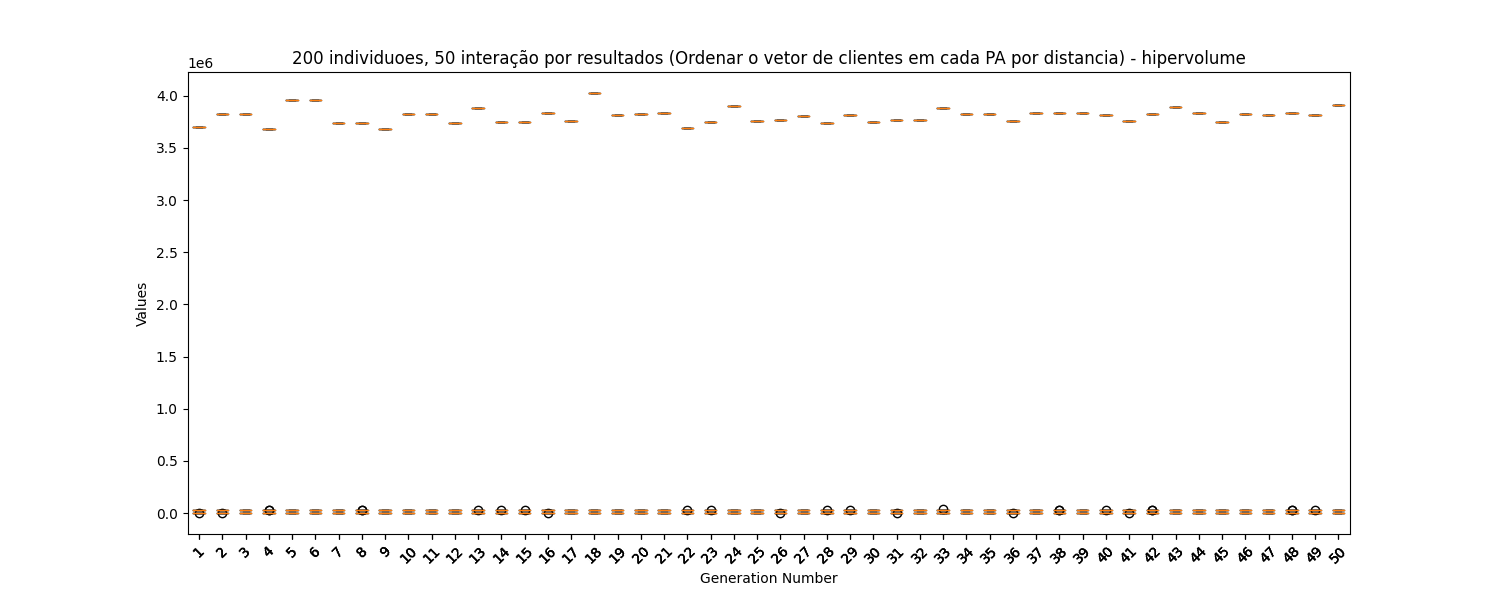
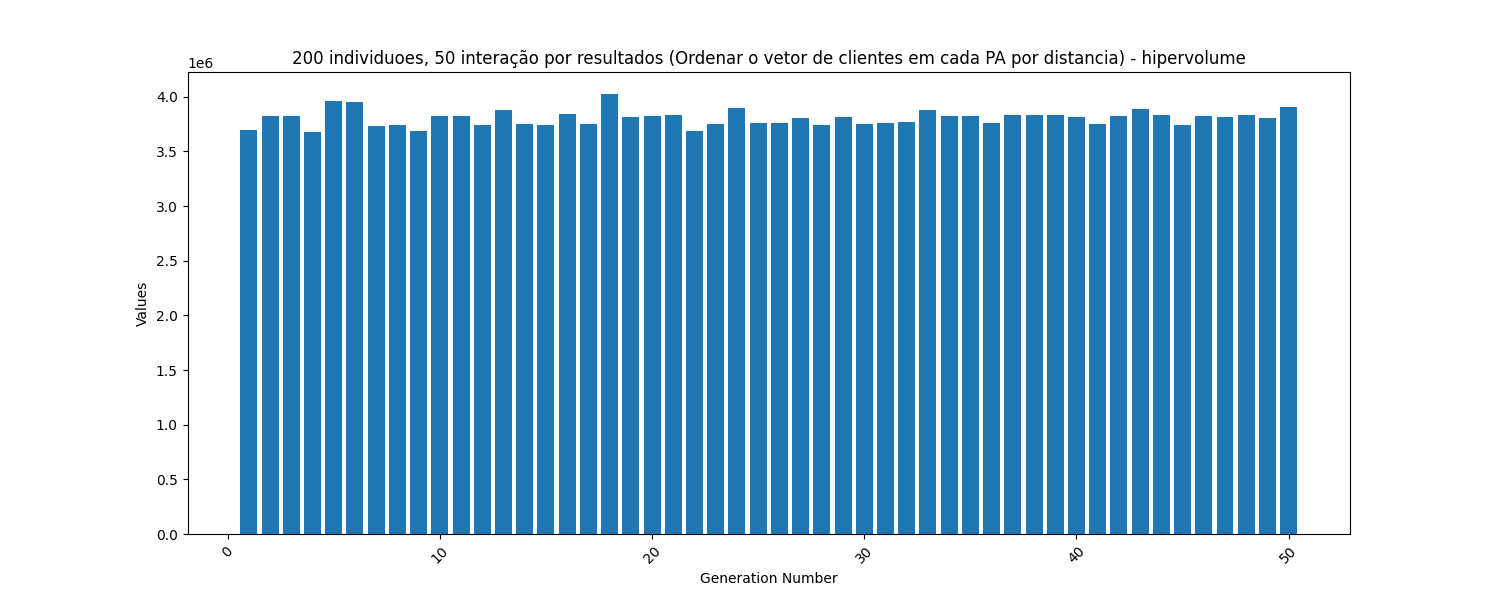
graficos hipervolume

diff --git a/plot_results.py b/plot_results.py
@@ -67,13 +67,13 @@ def plot_heuristic(file_name: str):
 
     plt.figure(figsize=(15, 6))
 
-    # plt.boxplot([[h] for h in hipervolumes], positions=range(1, len(hipervolumes) + 1), bootstrap=5000)
-    # plt.xticks(rotation=45)
-    # plt.xlabel('Generation Number')
-    # plt.ylabel('Values')
-    # plt.title(title.replace("\n", "") + " - hipervolume")
-    # # plt.show()
-    # plt.savefig(f'./images/{file_name.replace(".txt", "")}_hipervolume.png')
+    plt.bar(range(1, len(hipervolumes) + 1), hipervolumes)
+    plt.xticks(rotation=45)
+    plt.xlabel('Generation Number')
+    plt.ylabel('Values')
+    plt.title(title.replace("\n", "") + " - hipervolume")
+    # plt.show()
+    plt.savefig(f'./images/{file_name.replace(".txt", "")}_hipervolume.png')
 
 
 if __name__ == '__main__':
